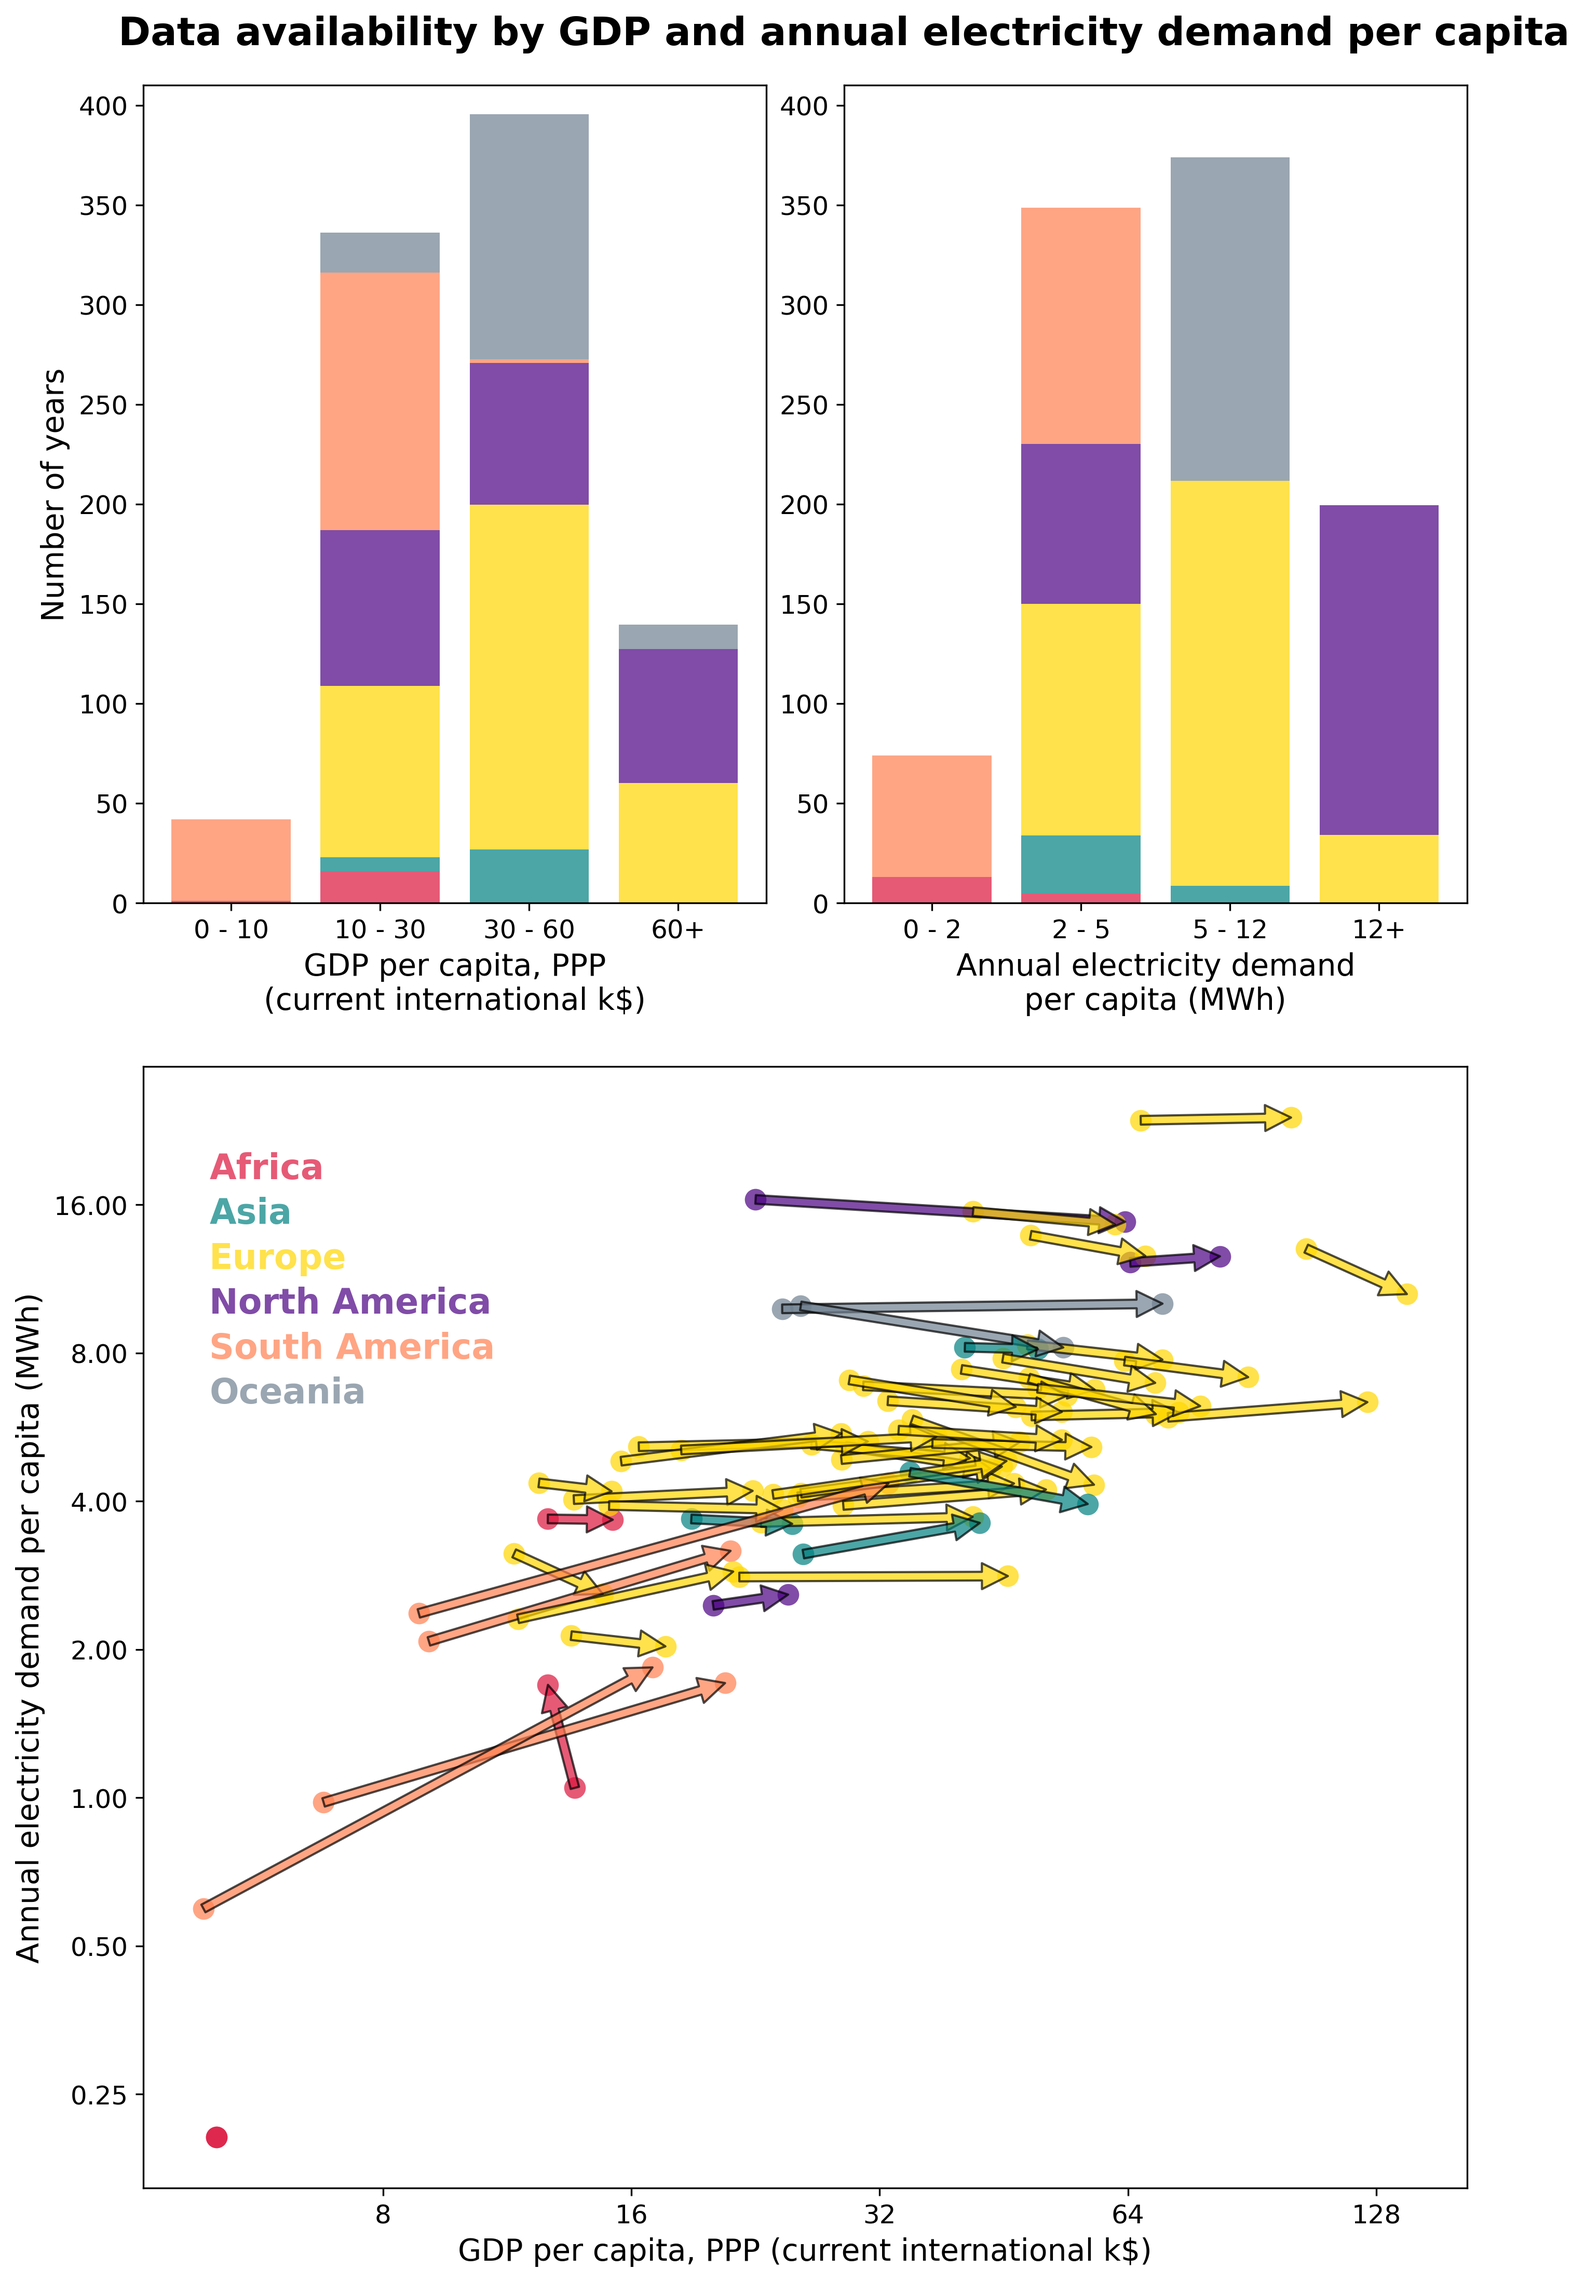
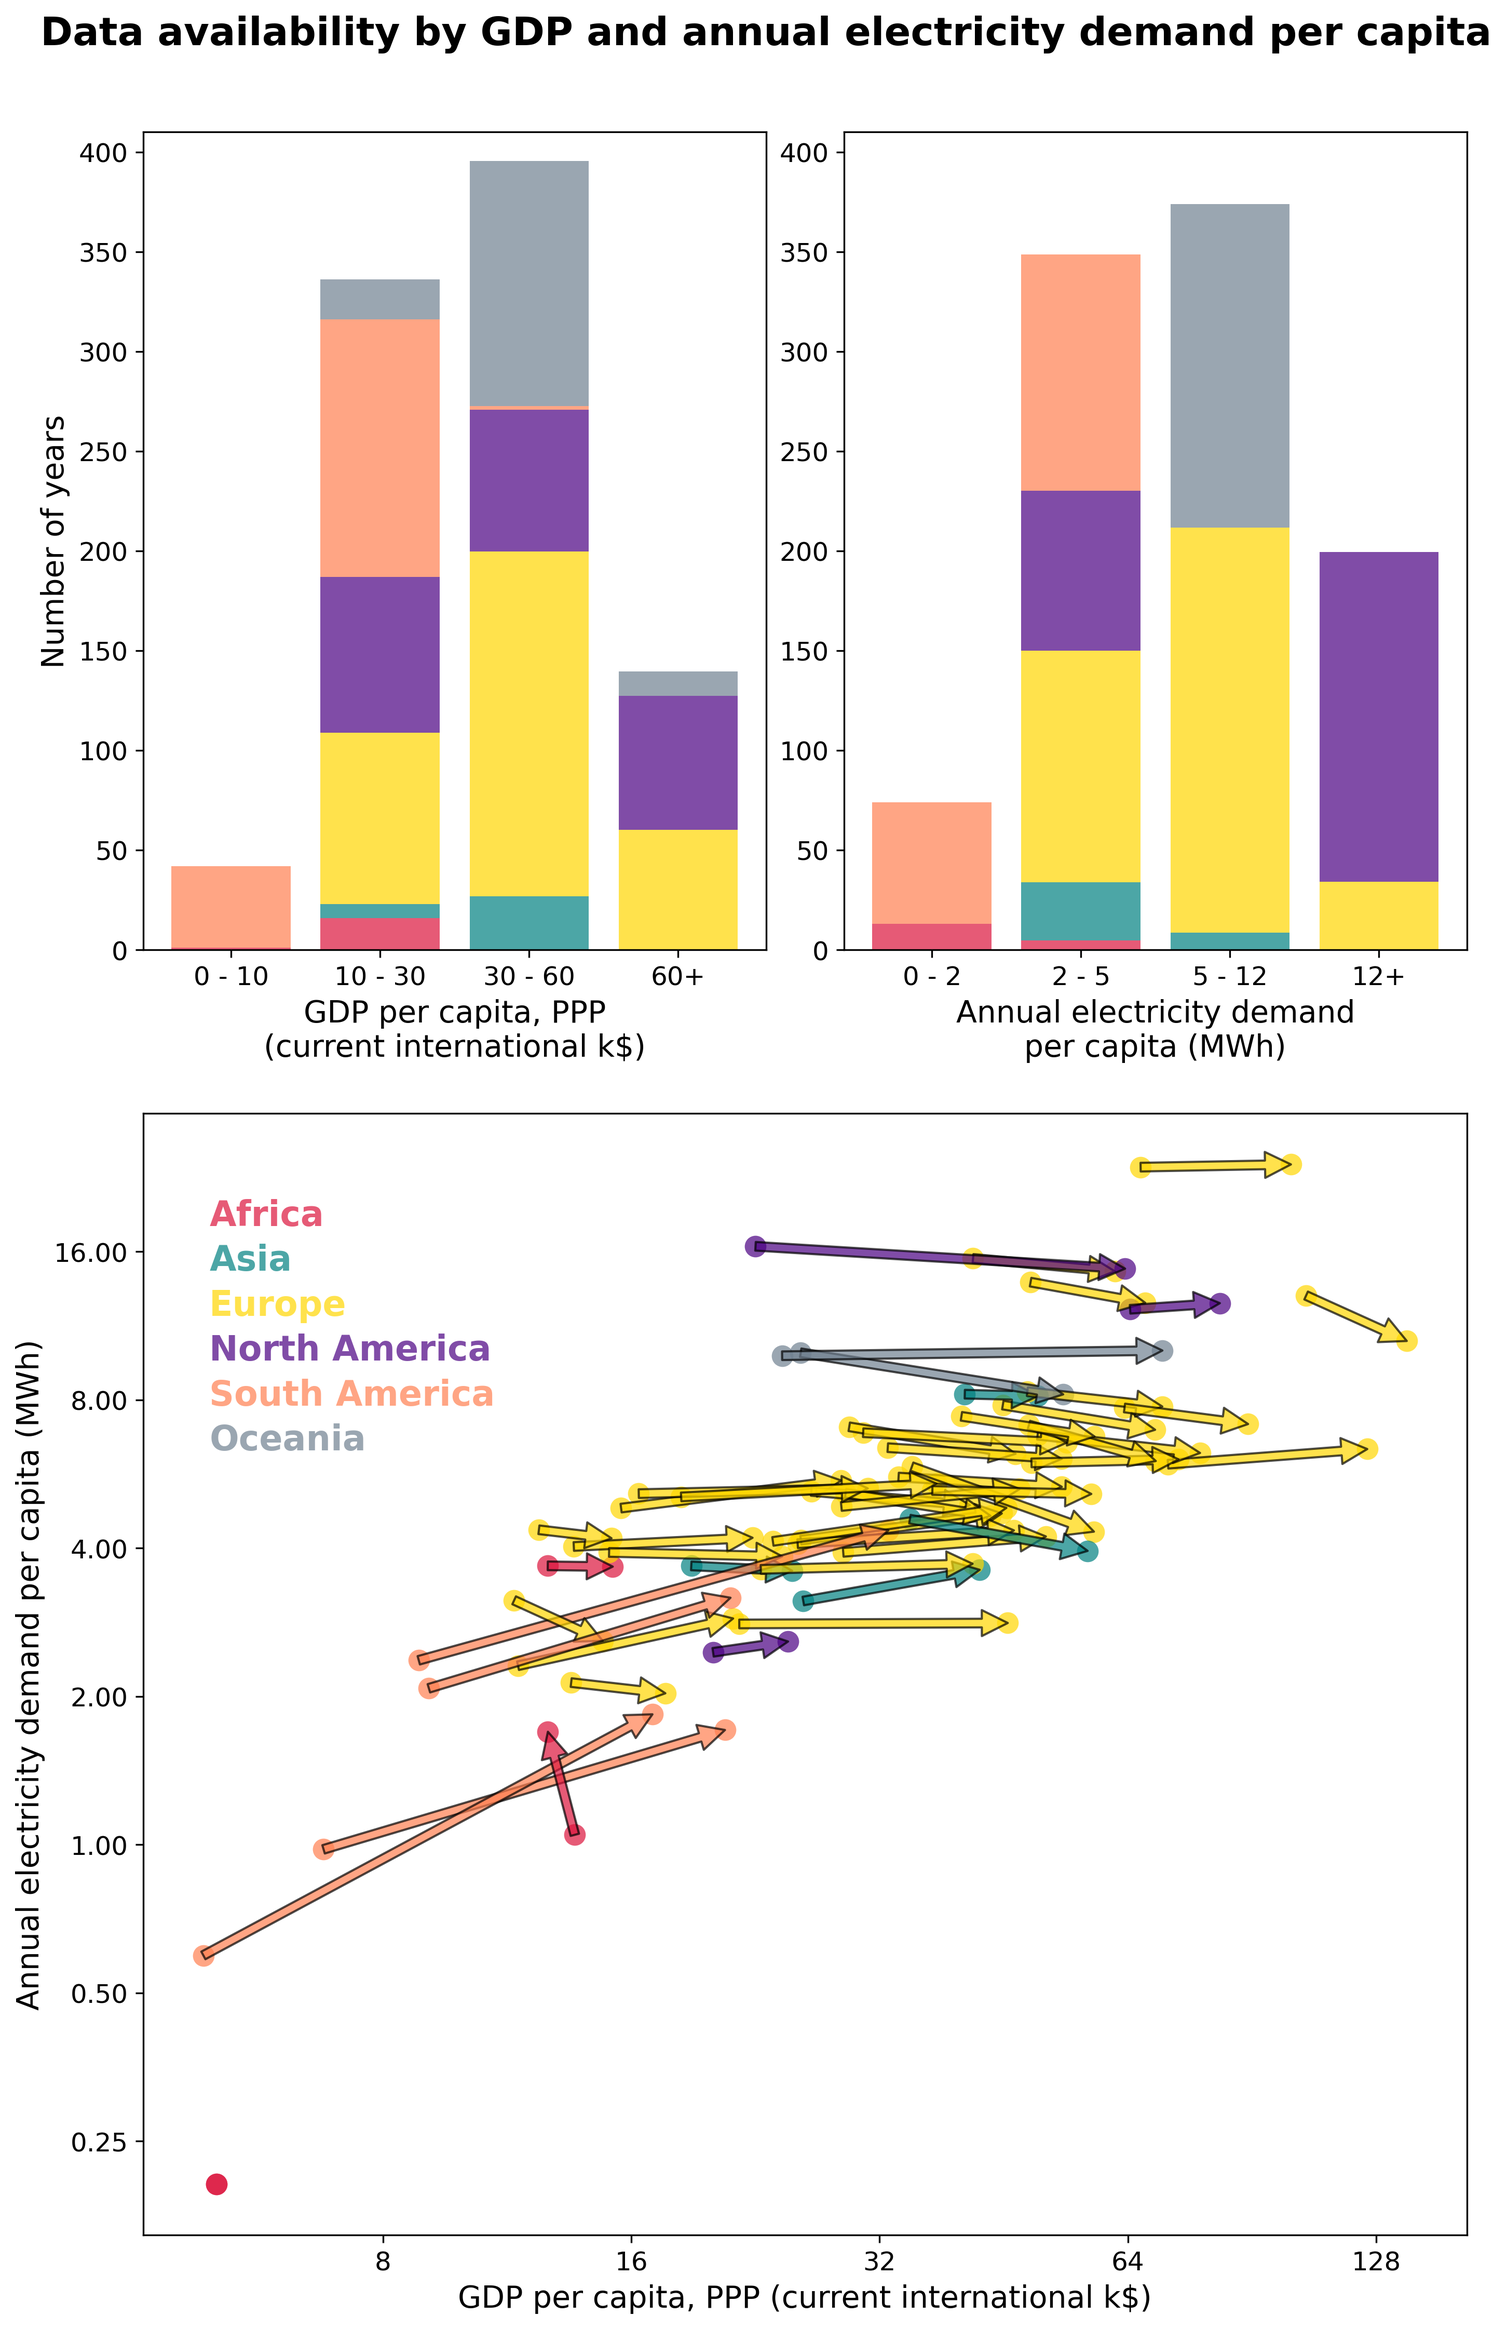
Updated figure

diff --git a/ETL/draw_data_availability.py b/ETL/draw_data_availability.py
@@ -633,6 +633,8 @@ ax.set_ylabel("Annual electricity demand per capita (MWh)", fontsize=14)
 # Add a title to the figure.
 matplotlib.pyplot.suptitle(
     "Data availability by GDP and annual electricity demand per capita",
+    x=0.45,
+    y=1.0,
     fontsize=18,
     weight="bold",
 )
